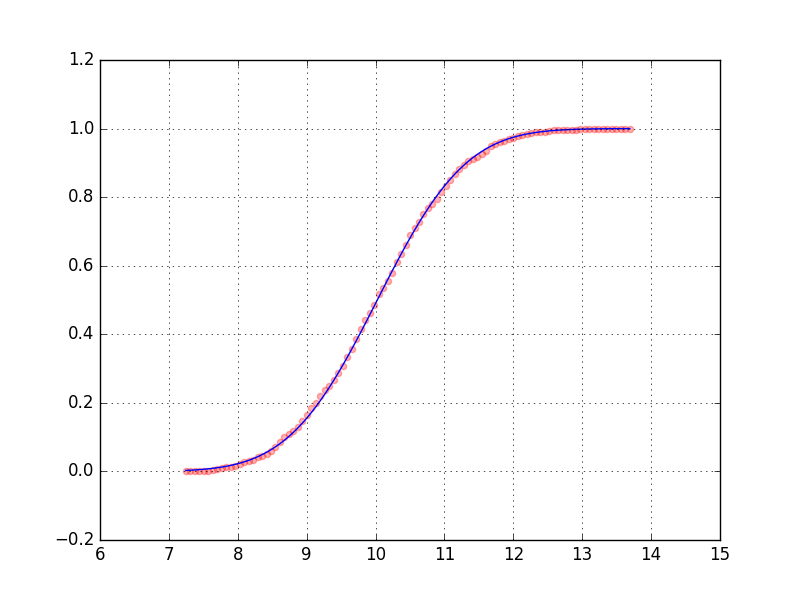
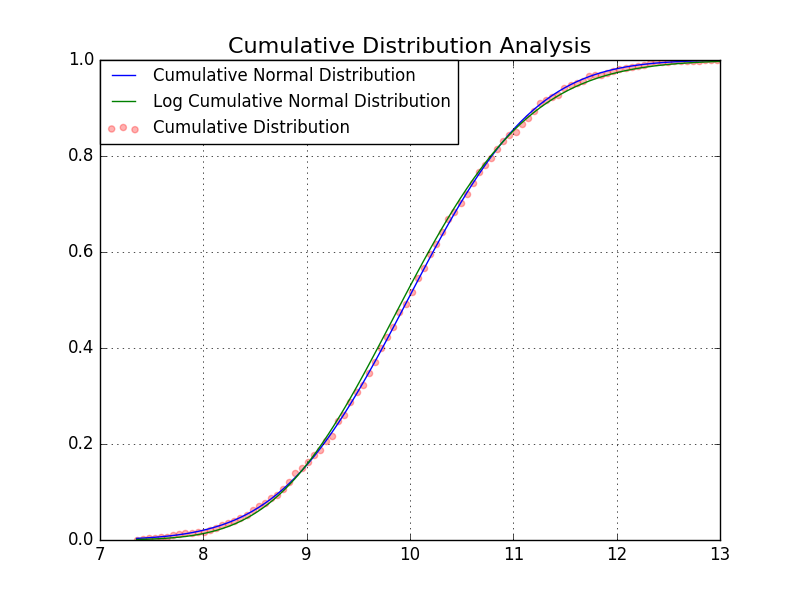
Update chart configuration.

diff --git a/CDFAnalyzer.py b/CDFAnalyzer.py
@@ -132,11 +132,16 @@ if __name__ == '__main__':
     resultData = cdf.getCDData(groups = 100)
     cndCurveData = cdf.getCNDCurve(groups = 100, n = 64)
     logCNDCurveData = cdf.getLogCNDCurve(groups = 100, n = 64)
-
+   
+    #Setup axis of the chart
+    axis_list = [7.0, 13.0, 0.0, 1.0]
+    plt.axis(axis_list)
     plt.scatter(resultData[0], resultData[1], color = 'red', alpha = 0.3, label = 'Cumulative Distribution')
-    plt.plot(cndCurveData[0], cndCurveData[1], color = 'blue')
-    plt.plot(logCNDCurveData[0], logCNDCurveData[1], color = 'green')
-    plt.xlabal = 'Value'
-    plt.ylabal = 'Probability'
+    plt.plot(cndCurveData[0], cndCurveData[1], color = 'blue', label = 'Cumulative Normal Distribution')
+    plt.plot(logCNDCurveData[0], logCNDCurveData[1], color = 'green', label = 'Log Cumulative Normal Distribution')
     plt.grid(True)
+    #Add legend box
+    plt.legend(loc = 'upper left', ncol = 1, borderaxespad = 0, fontsize = 12)
+    #Add title
+    plt.title('Cumulative Distribution Analysis', fontsize = 16)
     plt.show()
